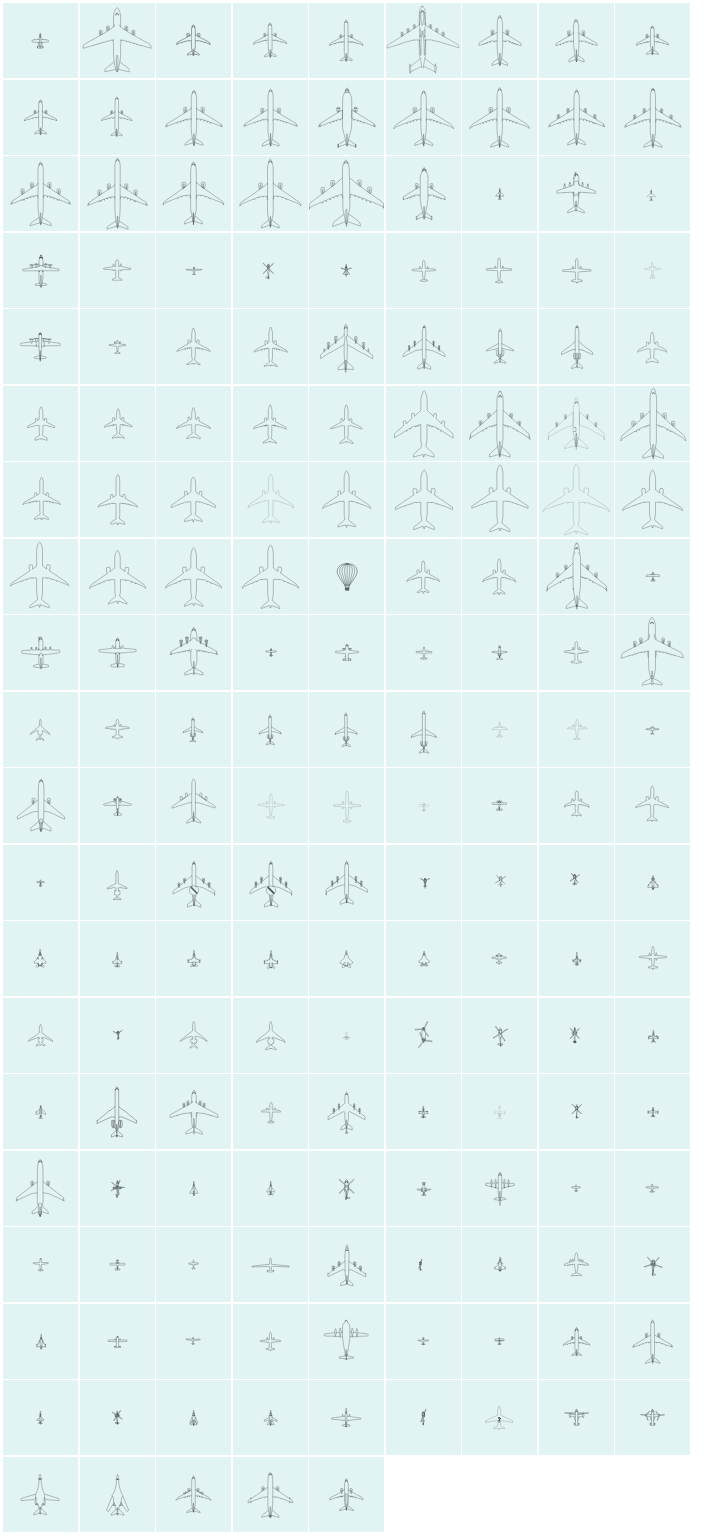
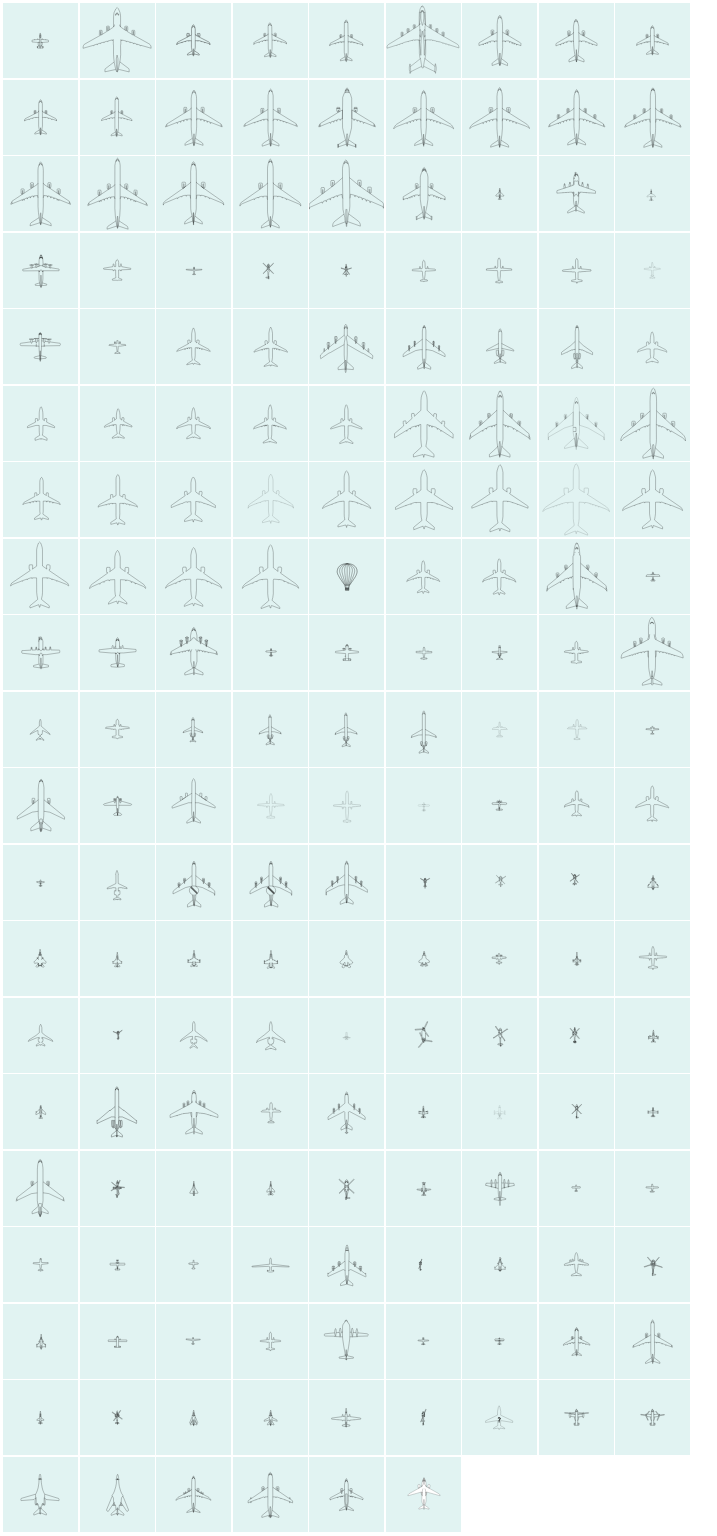
add C390

diff --git a/Shapes SVG/svgCatalog.html b/Shapes SVG/svgCatalog.html
@@ -174,3 +174,4 @@
 <img title="P8.svg" src="P8.svg" width="200" height="200" style="background-color: rgb(225, 243, 242)" />
 <img title=KC46.svg" src="KC46.svg" width="200" height="200" style="background-color: rgb(225, 243, 242)" /> 
 <img title="E737.svg" src="E737.svg" width="200" height="200" style="background-color: rgb(225, 243, 242)" /> 
+<img title="C390.svg" src="C390.svg" width="200" height="200" style="background-color: rgb(225, 243, 242)" />
